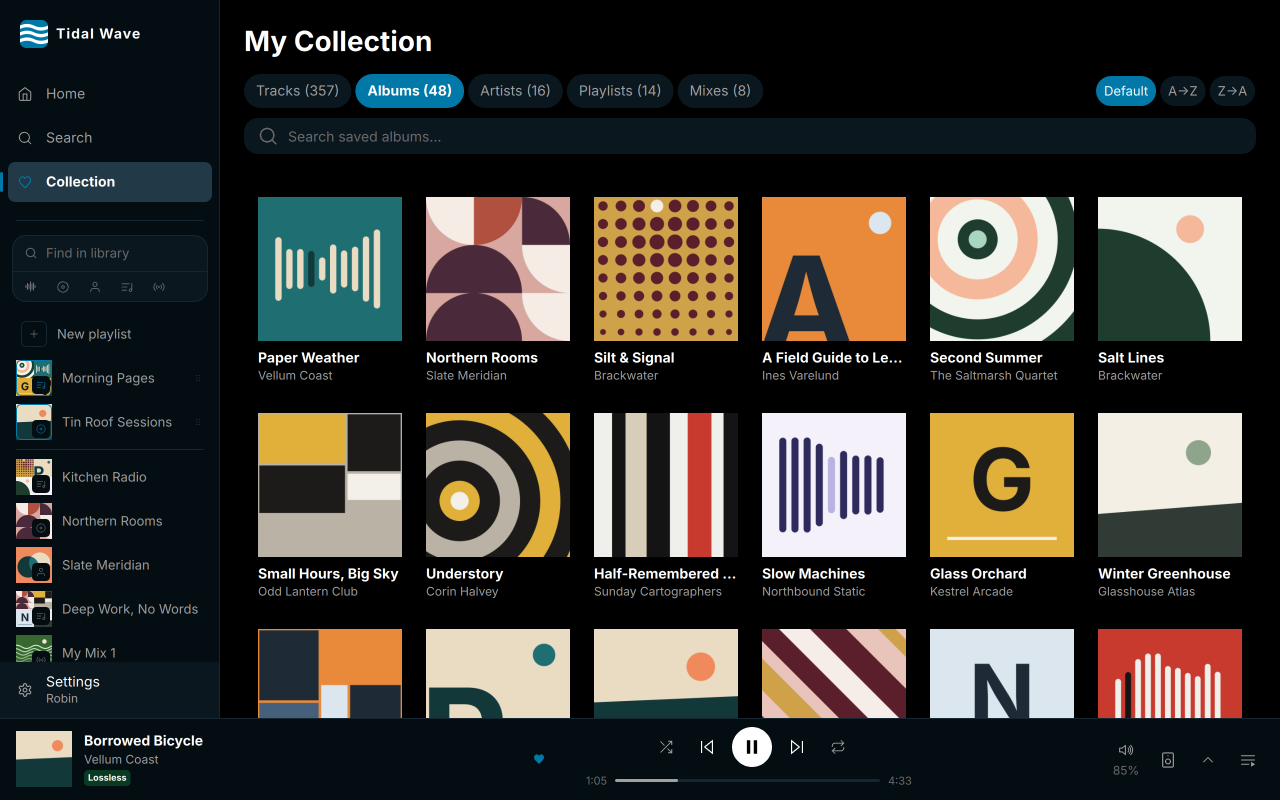
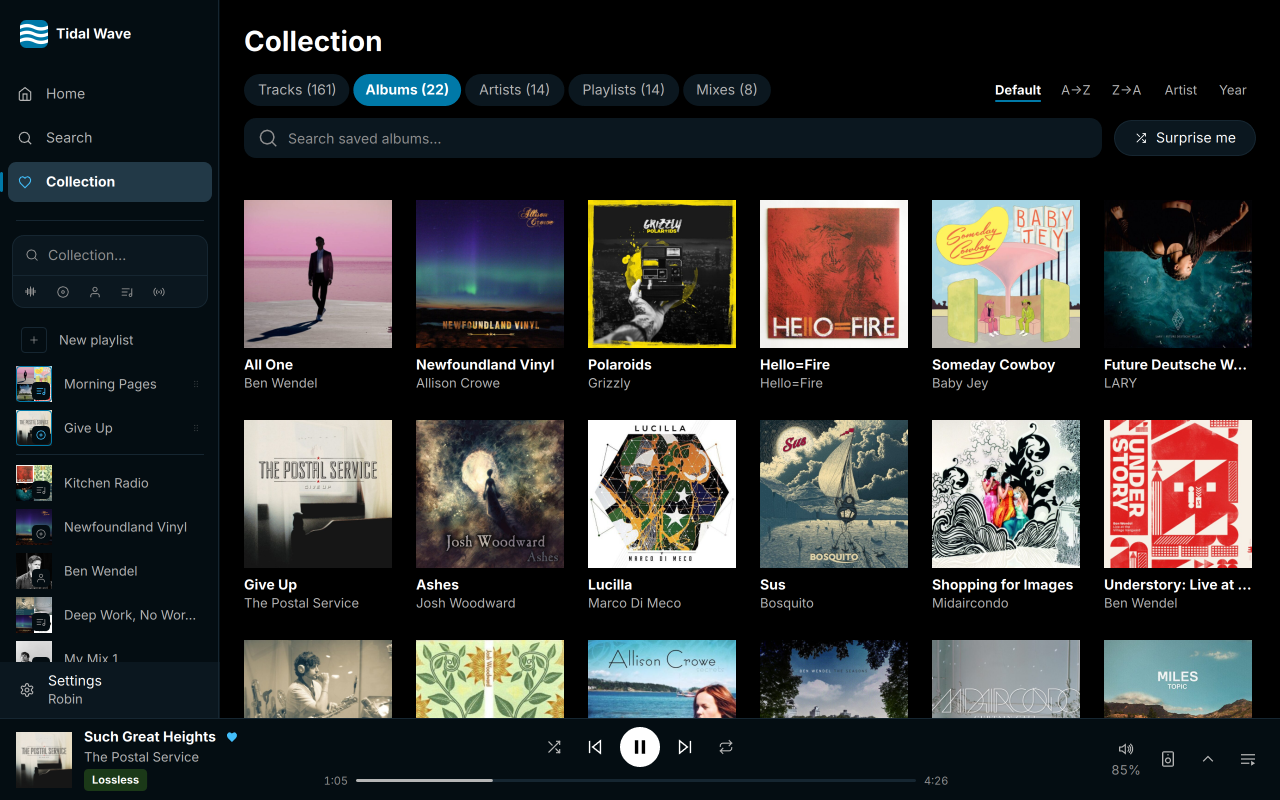
docs: the published screenshots show the real records of the store set
The five pictures in assets/ are the store set in Sea, the default dark
theme, as tests/visual/run.sh store draws it on the library of real
records under free licences (losslessly recompressed, metadata
stripped). The README and the AppStream metainfo show one set, so the
Clay set is not published.

The metainfo URLs point at v0.5.0, the tag these files will be on.
Until that tag exists the store-metadata CI job, which fetches every
screenshot, reports them as not found; appstreamcli validate --no-net
passes. Captions follow the new pictures in sentence case: the home
page now shows the track that plays, mixes and favourite artists, the
page is called Collection, and Now playing shows what comes next. The
README's credits line also names the one public domain image.

Claude-Session: https://claude.ai/code/session_01Eb7Ng2RaktduwvbvBRiVhX

diff --git a/README.md b/README.md
@@ -26,7 +26,8 @@ you happen to use.
 </details>
 
 The screenshots are drawn by `tests/visual/run.sh store` on a library of real
-records whose sleeves and artist photos are under Creative Commons licences.
+records whose sleeves and artist photos are under Creative Commons licences
+or in the public domain.
 [`tests/visual/store/CREDITS.md`](tests/visual/store/CREDITS.md) names the
 author, source and licence of each image.
 
